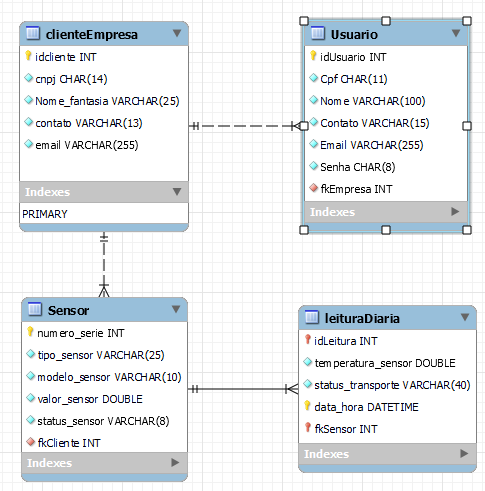
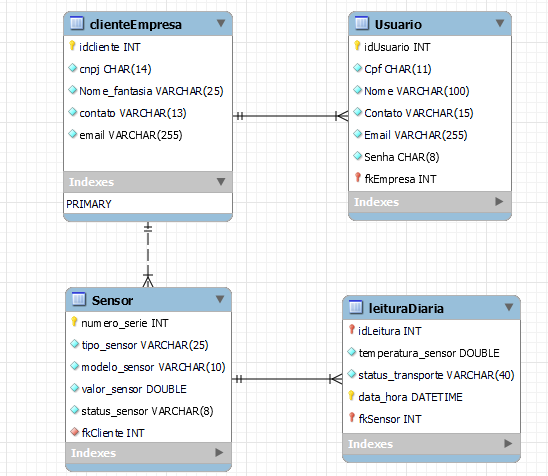
Atualização de Chave Primaria Composta

diff --git a/README.md b/README.md
@@ -14,7 +14,3 @@ Em nosso Banco de Dados temos 3 tabelas.
 # Tabela Leitura Diária:
 - Nessa tabela guardamos o registro dos sensores, ou seja, todos os dados recebidos por eles juntamente com o status do transporte. Ela é ligada com a <b>Tabela Sensor</b>
 
-# Modelagem do nosso banco de dados:
-
-
-![imagem-modelagem](https://user-images.githubusercontent.com/file:///C:/Users/chris/Pictures/AstModelagemAtualizada.png)
